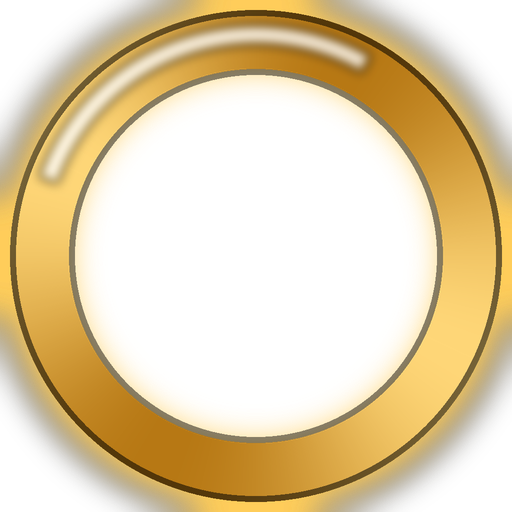
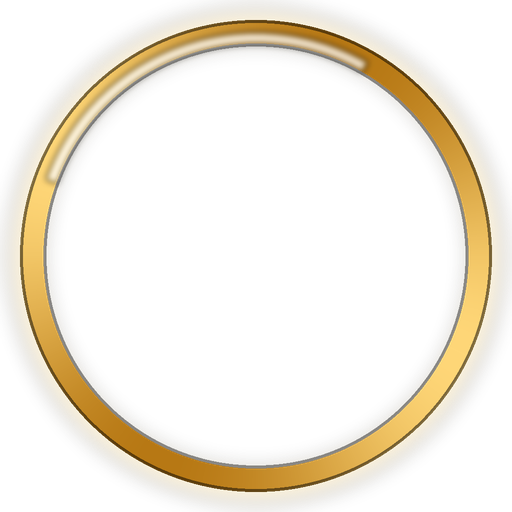
v1.6

diff --git a/index.html b/index.html
@@ -10,6 +10,7 @@
 <link rel="preload" as="image" href="Logos/InstagramLogo.png">
 <link rel="preload" as="image" href="Frames/frame-gold-founders.png">
 <link rel="preload" as="image" href="Frames/frame-purple-staff.png">
+<link rel="preload" as="image" href="Logos/BannerPeaches.png">
 <link rel="preconnect" href="https://fonts.googleapis.com">
 <link href="https://fonts.googleapis.com/css2?family=Grandstander:ital,wght@0,500;0,600;0,700;0,800;1,600;1,700;1,800&family=DM+Sans:wght@400;500;600;700&display=swap" rel="stylesheet">
 <script src="https://cdn.jsdelivr.net/npm/lucide@0.462.0/dist/umd/lucide.min.js"></script>
@@ -86,7 +87,7 @@
     display:flex; align-items:center; justify-content:center; gap:.5rem;
     padding:clamp(.8rem,3vw,1.4rem) 1rem .1rem;
   }
-  .brandbar svg{width:1.4rem; height:1.4rem;}
+  .brandbar img{height:2.1rem; width:auto; display:block;}
   .brandbar span{font-family:"Grandstander",sans-serif; font-weight:800; font-style:italic; font-size:1rem; letter-spacing:.02em;}
 
   .stage{width:100%; min-width:0; min-height:0; display:flex; align-items:center; justify-content:center; padding:clamp(.9rem,4vw,3rem); overflow-y:auto;}
@@ -164,6 +165,8 @@
     font-size:.7rem; font-weight:600; background:rgba(0,0,0,.35); color:var(--white);
     padding:.3rem .7rem; border-radius:999px; pointer-events:none;
   }
+  .clip-progress{width:100%; height:5px; background:rgba(255,255,255,.28); border-radius:999px; overflow:hidden; margin-top:.6rem;}
+  .clip-progress-fill{height:100%; width:0%; background:var(--white); border-radius:inherit;}
   .seq-controls{display:flex; align-items:center; justify-content:center; margin-top:.2rem;}
   .btn-sound{
     display:inline-flex; align-items:center; gap:.5rem; padding:.5rem .85rem; border-radius:999px;
@@ -171,9 +174,8 @@
   }
 
   /* ---------- pantalla: dúo de "cartas" tipo poker ---------- */
-  .duo-wrap{width:min(100%,440px); margin:0 auto; text-align:center; display:flex; flex-direction:column; align-items:center; gap:.2rem;}
+  .duo-wrap{width:min(100%,440px); margin:0 auto; text-align:center; display:flex; flex-direction:column; align-items:center; gap:1.3rem;}
   .duo-title{opacity:0; transform:translateY(14px); margin:0; padding:0 .4rem; overflow-wrap:normal; word-break:keep-all;}
-  .dt-2{margin-top:10%;}
   .duo-wrap.is-playing .dt-1{animation:duoTitleIn .7s ease forwards; animation-delay:.05s;}
   .duo-wrap.is-playing .dt-2{animation:duoTitleIn .7s ease forwards; animation-delay:.55s;}
   @keyframes duoTitleIn{to{opacity:1; transform:translateY(0);}}
@@ -188,17 +190,17 @@
     border:3px solid var(--white); overflow:hidden; opacity:0;
     box-shadow:0 20px 45px rgba(120,10,60,.32);
   }
-  .dc-1{z-index:1; transform:translate(-15.4%,-8.8%) rotate(-9deg) scale(.96);}
-  .dc-2{z-index:2; transform:translate(15.4%,8.8%) rotate(9deg) scale(.96);}
+  .dc-1{z-index:1; transform:translate(-16.94%,-8.8%) rotate(-9deg) scale(.96);}
+  .dc-2{z-index:2; transform:translate(16.94%,8.8%) rotate(9deg) scale(.96);}
   .duo-cards.is-playing .dc-1{animation:dealCard1 .85s cubic-bezier(.22,.8,.25,1) forwards;}
   .duo-cards.is-playing .dc-2{animation:dealCard2 .85s cubic-bezier(.22,.8,.25,1) forwards; animation-delay:.5s;}
   @keyframes dealCard1{
     from{opacity:0; transform:translate(-70%,-45%) rotate(-32deg) scale(.78);}
-    to{opacity:1; transform:translate(-15.4%,-8.8%) rotate(-9deg) scale(.96);}
+    to{opacity:1; transform:translate(-16.94%,-8.8%) rotate(-9deg) scale(.96);}
   }
   @keyframes dealCard2{
     from{opacity:0; transform:translate(70%,45%) rotate(32deg) scale(.78);}
-    to{opacity:1; transform:translate(15.4%,8.8%) rotate(9deg) scale(.96);}
+    to{opacity:1; transform:translate(16.94%,8.8%) rotate(9deg) scale(.96);}
   }
   .fan-screen{width:100%; height:100%; display:flex; flex-direction:column; align-items:stretch; justify-content:flex-start; padding:.6rem; gap:0; overflow:hidden; color:var(--white); background:var(--pink-deep); position:relative; z-index:0;}
   .duo-video{position:absolute; inset:0; width:100%; height:100%; object-fit:contain; background:#000; z-index:1; display:none;}
@@ -248,7 +250,7 @@
   .smule-card:focus-visible{outline:3px solid var(--white); outline-offset:4px; border-radius:.7rem;}
   .avatar-wrap{position:relative; display:inline-flex;}
   .smule-card img{width:4.42rem; height:4.42rem; border-radius:50%; object-fit:cover; border:3px solid var(--white); box-shadow:0 8px 18px rgba(120,10,60,.28); background:var(--pink-deep);}
-  .avatar-ring{position:absolute; top:50%; left:50%; width:142%; height:142%; transform:translate(-50%,-50%); pointer-events:none; z-index:1;}
+  .avatar-ring{position:absolute; top:50%; left:50%; width:135%; height:135%; transform:translate(-50%,-50%); pointer-events:none; z-index:1;}
   .crown-badge{
     position:absolute; top:-.35rem; right:-.4rem; width:1.15rem; height:1.15rem;
     color:#ffd34d; background:var(--pink-darker); border-radius:50%; padding:.2rem;
@@ -314,7 +316,7 @@
   <section id="screen-1" class="screen is-active" aria-labelledby="t1">
     <div class="bg"></div>
     <div class="brandbar" aria-hidden="true">
-      <svg viewBox="0 0 64 64" fill="none"><path d="M32 54C18 46 8 36 8 24c0-8 6-14 13-14 5 0 9 3 11 7 2-4 6-7 11-7 7 0 13 6 13 14 0 12-10 22-24 30Z" stroke="#fff" stroke-width="4" stroke-linejoin="round"/><path d="M32 17c1-4 4-6 7-7-2 5-2 8 0 11-3 1-6 0-7-4Z" fill="#fff"/></svg>
+      <img src="Logos/BannerPeaches.png" alt="Peaches">
       <span>Peaches</span>
     </div>
     <div class="stage">
@@ -334,7 +336,7 @@
   <section id="screen-2" class="screen" aria-labelledby="t2">
     <div class="bg alt"></div>
     <div class="brandbar" aria-hidden="true">
-      <svg viewBox="0 0 64 64" fill="none"><path d="M32 54C18 46 8 36 8 24c0-8 6-14 13-14 5 0 9 3 11 7 2-4 6-7 11-7 7 0 13 6 13 14 0 12-10 22-24 30Z" stroke="#fff" stroke-width="4" stroke-linejoin="round"/><path d="M32 17c1-4 4-6 7-7-2 5-2 8 0 11-3 1-6 0-7-4Z" fill="#fff"/></svg>
+      <img src="Logos/BannerPeaches.png" alt="Peaches">
       <span>Peaches</span>
     </div>
     <div class="stage">
@@ -346,7 +348,7 @@
         <button id="clip-frame" type="button" class="clip-frame" aria-label="Toca la imagen para ver la siguiente escena">
           <span id="clip-sr" class="sr-only" aria-live="polite">Matar el dragón. Con audio chistoso incluido.</span>
           <div class="clip c1 is-current" data-clip="0" aria-hidden="true">
-            <video class="clip-video" src="videos/team-1.mp4" loop playsinline preload="metadata" onerror="this.style.display='none'"></video>
+            <video class="clip-video" src="videos/team-1.mp4" playsinline preload="metadata" onerror="this.style.display='none'; this.dataset.broken='true';"></video>
             <div class="clip-mock">
               <i data-lucide="mic-2" class="clip-icon"></i>
               <p class="clip-title">Cover del momento</p>
@@ -354,7 +356,7 @@
             </div>
           </div>
           <div class="clip c2" data-clip="1" aria-hidden="true">
-            <video class="clip-video" src="videos/team-2.mp4" loop playsinline preload="metadata" onerror="this.style.display='none'"></video>
+            <video class="clip-video" src="videos/team-2.mp4" playsinline preload="metadata" onerror="this.style.display='none'; this.dataset.broken='true';"></video>
             <div class="clip-mock">
               <i data-lucide="drama" class="clip-icon"></i>
               <p class="clip-title">Escena de doblaje</p>
@@ -362,7 +364,7 @@
             </div>
           </div>
           <div class="clip c3" data-clip="2" aria-hidden="true">
-            <video class="clip-video" src="videos/team-3.mp4" loop playsinline preload="metadata" onerror="this.style.display='none'"></video>
+            <video class="clip-video" src="videos/team-3.mp4" playsinline preload="metadata" onerror="this.style.display='none'; this.dataset.broken='true';"></video>
             <div class="clip-mock">
               <i data-lucide="flame" class="clip-icon"></i>
               <p class="clip-title">Matar el dragón</p>
@@ -370,7 +372,7 @@
             </div>
           </div>
           <div class="clip c4" data-clip="3" aria-hidden="true">
-            <video class="clip-video" src="videos/team-4.mp4" loop playsinline preload="metadata" onerror="this.style.display='none'"></video>
+            <video class="clip-video" src="videos/team-4.mp4" playsinline preload="metadata" onerror="this.style.display='none'; this.dataset.broken='true';"></video>
             <div class="clip-mock">
               <i data-lucide="radio" class="clip-icon"></i>
               <p class="clip-title">Fragmento de stream</p>
@@ -379,6 +381,9 @@
           </div>
           <span class="tap-hint" aria-hidden="true">Toca para saltar</span>
         </button>
+        <div class="clip-progress" aria-hidden="true">
+          <div class="clip-progress-fill" id="clip-progress-fill"></div>
+        </div>
         <div class="seq-controls">
           <button id="sound-toggle" type="button" class="btn-sound" aria-pressed="false">
             <i id="sound-icon" data-lucide="volume-2" class="w-4 h-4"></i>
@@ -398,7 +403,7 @@
   <section id="screen-3" class="screen" aria-labelledby="t3">
     <div class="bg"></div>
     <div class="brandbar" aria-hidden="true">
-      <svg viewBox="0 0 64 64" fill="none"><path d="M32 54C18 46 8 36 8 24c0-8 6-14 13-14 5 0 9 3 11 7 2-4 6-7 11-7 7 0 13 6 13 14 0 12-10 22-24 30Z" stroke="#fff" stroke-width="4" stroke-linejoin="round"/><path d="M32 17c1-4 4-6 7-7-2 5-2 8 0 11-3 1-6 0-7-4Z" fill="#fff"/></svg>
+      <img src="Logos/BannerPeaches.png" alt="Peaches">
       <span>Peaches</span>
     </div>
     <div class="stage">
@@ -441,7 +446,7 @@
   <section id="screen-4" class="screen" aria-labelledby="t4">
     <div class="bg alt"></div>
     <div class="brandbar" aria-hidden="true">
-      <svg viewBox="0 0 64 64" fill="none"><path d="M32 54C18 46 8 36 8 24c0-8 6-14 13-14 5 0 9 3 11 7 2-4 6-7 11-7 7 0 13 6 13 14 0 12-10 22-24 30Z" stroke="#fff" stroke-width="4" stroke-linejoin="round"/><path d="M32 17c1-4 4-6 7-7-2 5-2 8 0 11-3 1-6 0-7-4Z" fill="#fff"/></svg>
+      <img src="Logos/BannerPeaches.png" alt="Peaches">
       <span>Peaches</span>
     </div>
     <div class="stage">
@@ -474,7 +479,7 @@
   <section id="screen-5" class="screen" aria-labelledby="t5">
     <div class="bg"></div>
     <div class="brandbar" aria-hidden="true">
-      <svg viewBox="0 0 64 64" fill="none"><path d="M32 54C18 46 8 36 8 24c0-8 6-14 13-14 5 0 9 3 11 7 2-4 6-7 11-7 7 0 13 6 13 14 0 12-10 22-24 30Z" stroke="#fff" stroke-width="4" stroke-linejoin="round"/><path d="M32 17c1-4 4-6 7-7-2 5-2 8 0 11-3 1-6 0-7-4Z" fill="#fff"/></svg>
+      <img src="Logos/BannerPeaches.png" alt="Peaches">
       <span>Peaches</span>
     </div>
     <div class="stage">
@@ -569,7 +574,7 @@
   <section id="screen-6" class="screen" aria-labelledby="t6">
     <div class="bg alt"></div>
     <div class="brandbar" aria-hidden="true">
-      <svg viewBox="0 0 64 64" fill="none"><path d="M32 54C18 46 8 36 8 24c0-8 6-14 13-14 5 0 9 3 11 7 2-4 6-7 11-7 7 0 13 6 13 14 0 12-10 22-24 30Z" stroke="#fff" stroke-width="4" stroke-linejoin="round"/><path d="M32 17c1-4 4-6 7-7-2 5-2 8 0 11-3 1-6 0-7-4Z" fill="#fff"/></svg>
+      <img src="Logos/BannerPeaches.png" alt="Peaches">
       <span>Peaches</span>
     </div>
     <div class="stage">
@@ -657,14 +662,15 @@
   const bgMusic = document.getElementById("bg-music");
   function playBgMusic(){
     if(!bgMusic || !bgMusic.paused) return;
-    bgMusic.volume = 0.5;
+    bgMusic.volume = 0.3;
+    bgMusic.muted = soundMuted;
     const attempt = bgMusic.play();
     if(attempt && attempt.catch){
       attempt.catch(()=>{
         bgMusic.muted = true;
         bgMusic.play().catch(()=>{});
         const retry = ()=>{
-          bgMusic.muted = false;
+          bgMusic.muted = soundMuted;
           bgMusic.play().catch(()=>{});
         };
         window.addEventListener("pointerdown", retry, { once:true });
@@ -741,6 +747,7 @@
     soundMuted = !soundMuted;
     masterGain.gain.value = soundMuted ? 0 : 0.16;
     setAllVideosMuted(soundMuted);
+    if(bgMusic) bgMusic.muted = soundMuted;
     updateSoundControl();
   });
 
@@ -758,10 +765,20 @@
   ];
   let clipIndex = 0;
   let clipTimer = null;
-  const CLIP_DURATION = 4500; // ms que dura cada clip antes de pasar solo al siguiente
+  const CLIP_FALLBACK_DURATION = 4500; // solo se usa si un clip no tiene video reproducible
   const prefersReducedMotion = window.matchMedia && window.matchMedia("(prefers-reduced-motion: reduce)").matches;
+  const clipProgressFill = document.getElementById("clip-progress-fill");
+
+  function resetClipProgress(){
+    if(!clipProgressFill) return;
+    clipProgressFill.style.transition = "none";
+    clipProgressFill.style.width = "0%";
+    void clipProgressFill.offsetWidth; // forzar reflow
+    clipProgressFill.style.transition = "";
+  }
 
   function updateClip(){
+    resetClipProgress();
     clips.forEach((c,i)=>{
       c.classList.toggle("is-current", i===clipIndex);
       const v = c.querySelector(".clip-video");
@@ -771,22 +788,31 @@
     });
     tapSubtitle.textContent = subtitles[clipIndex];
     clipSr.textContent = clipSrTexts[clipIndex];
+    scheduleClipAdvance();
   }
   function scheduleClipAdvance(){
     if(clipTimer) clearTimeout(clipTimer);
     if(prefersReducedMotion) return; // si el usuario pidió menos movimiento, que avance solo con tap
-    clipTimer = setTimeout(advanceClip, CLIP_DURATION);
+    const currentClipEl = clips[clipIndex];
+    const v = currentClipEl ? currentClipEl.querySelector(".clip-video") : null;
+    const broken = !v || v.dataset.broken === "true";
+    if(!broken) return; // hay video real: se espera a que termine (evento "ended"), no a un timer fijo
+    if(clipProgressFill){
+      requestAnimationFrame(()=>{
+        clipProgressFill.style.transition = `width ${CLIP_FALLBACK_DURATION}ms linear`;
+        clipProgressFill.style.width = "100%";
+      });
+    }
+    clipTimer = setTimeout(advanceClip, CLIP_FALLBACK_DURATION);
     activeTimers.push(clipTimer);
   }
   function advanceClip(){
     clipIndex = (clipIndex + 1) % clips.length;
     updateClip();
-    scheduleClipAdvance();
   }
   function resetTapSequence(){
     clipIndex = 0;
     updateClip();
-    scheduleClipAdvance();
   }
   clipFrame.addEventListener("click", async ()=>{
     advanceClip();
@@ -828,6 +854,19 @@
       video.addEventListener("loadeddata", ()=>{
         const mock = video.nextElementSibling;
         if(mock && mock.classList.contains("clip-mock")) mock.style.display = "none";
+      });
+      video.addEventListener("ended", ()=>{
+        const clipEl = video.closest(".clip");
+        const idx = clipEl ? parseInt(clipEl.dataset.clip, 10) : -1;
+        if(idx === clipIndex) advanceClip();
+      });
+      video.addEventListener("timeupdate", ()=>{
+        const clipEl = video.closest(".clip");
+        const idx = clipEl ? parseInt(clipEl.dataset.clip, 10) : -1;
+        if(idx === clipIndex && clipProgressFill && video.duration){
+          clipProgressFill.style.transition = "";
+          clipProgressFill.style.width = ((video.currentTime / video.duration) * 100) + "%";
+        }
       });
     });
   }
